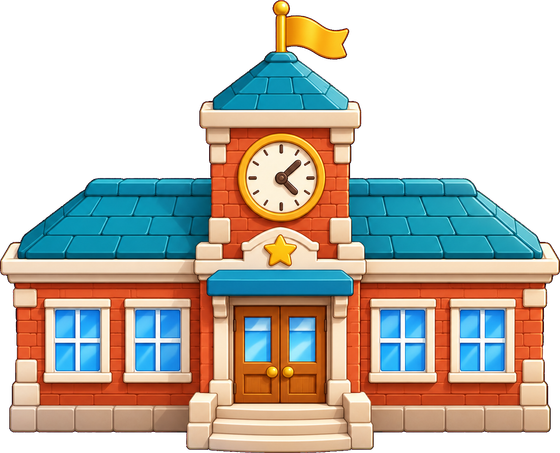
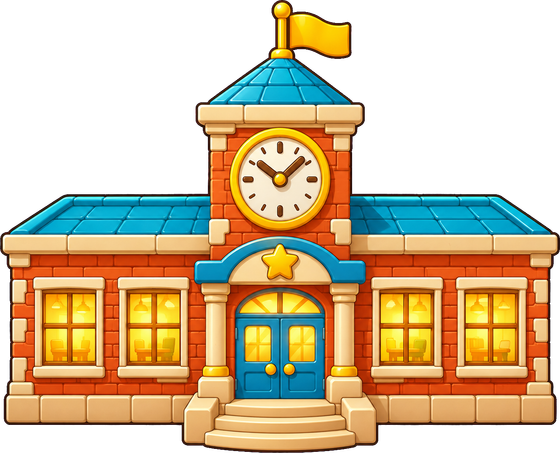
Coins leave the piggy bank when spending; 3D house, school and store map art
AnimateCoins now also animates spending: coins fly out of the piggy bank to the
given world position (the Store passes the item being bought) and each take-off
removes its share from the shown total.

Imports the new place_house/school/store pictures (sources kept in art/eva/map/ai).

diff --git a/EvasLearningWorld/Assets/Eva/App/Ui/Hud.cs b/EvasLearningWorld/Assets/Eva/App/Ui/Hud.cs
@@ -21,7 +21,6 @@ namespace EvasLearningWorld.App
         public const float HomeIconInset = 50f;
 
         private const float BubbleSeconds = 4f;
-        private const float CoinStepSeconds = 0.15f;
         private const float CoinFlySeconds = 0.55f;
         private const float CoinFlySize = 90f;
         private const int MaxFlyingCoins = 8;
@@ -108,14 +107,15 @@ namespace EvasLearningWorld.App
 
         public void SetCoins(int coins) => _coins.text = coins.ToString();
 
-        // Visually adds the coins from `from` up to `to`: up to MaxFlyingCoins coins fly in a short arc from
-        // `fromWorldPosition` (the middle of the screen when null) into the piggy bank, each landing plays
-        // Sfx.Coin(), bumps the piggy and adds its share to the shown total. Spending (to < from) just counts
-        // down. The underlying save is not touched here: EvaGame.Commit() already persisted the real total
+        // Visually moves the coin total from `from` to `to`: up to MaxFlyingCoins coins fly in a short arc.
+        // Gaining: they fly from `worldPosition` (the middle of the screen when null) into the piggy bank and each
+        // landing adds its share to the shown total. Spending: they fly out of the piggy bank to `worldPosition`
+        // (the thing being bought) and each take-off removes its share. Every coin plays Sfx.Coin() and bumps the
+        // piggy. The underlying save is not touched here: EvaGame.Commit() already persisted the real total
         // before a caller starts this (see CountScreen/StoreScreen), so quitting mid-animation never loses or
         // desyncs a coin.
-        public Coroutine AnimateCoins(int from, int to, Sfx sfx, Vector2? fromWorldPosition = null) =>
-            StartCoroutine(AnimateCoinsRoutine(from, to, sfx, fromWorldPosition));
+        public Coroutine AnimateCoins(int from, int to, Sfx sfx, Vector2? worldPosition = null) =>
+            StartCoroutine(AnimateCoinsRoutine(from, to, sfx, worldPosition));
 
         private sealed class CoinRun
         {
@@ -123,30 +123,20 @@ namespace EvasLearningWorld.App
             public int Pending;
         }
 
-        private IEnumerator AnimateCoinsRoutine(int from, int to, Sfx sfx, Vector2? fromWorldPosition)
+        private IEnumerator AnimateCoinsRoutine(int from, int to, Sfx sfx, Vector2? worldPosition)
         {
             SetCoins(from);
-            if (to < from)
-            {
-                for (var coins = from; coins != to; coins--)
-                {
-                    yield return new WaitForSeconds(CoinStepSeconds);
-                    SetCoins(coins - 1);
-                    if (sfx != null) sfx.Coin();
-                }
-                yield break;
-            }
-
-            var amount = to - from;
+            var amount = Mathf.Abs(to - from);
             if (amount == 0 || _coinIconRect == null) yield break;
 
+            var gaining = to > from;
             var flying = Mathf.Min(amount, MaxFlyingCoins);
-            var origin = fromWorldPosition ?? ScreenCentre();
+            var other = worldPosition ?? ScreenCentre();
             var run = new CoinRun { Shown = from, Pending = flying };
             for (var i = 0; i < flying; i++)
             {
                 var share = amount / flying + (i < amount % flying ? 1 : 0);
-                StartCoroutine(FlyCoin(origin, i * CoinStaggerSeconds, share, run, sfx));
+                StartCoroutine(FlyCoin(other, i * CoinStaggerSeconds, gaining ? share : -share, gaining, run, sfx));
             }
             while (run.Pending > 0) yield return null;
             SetCoins(to);
@@ -158,9 +148,13 @@ namespace EvasLearningWorld.App
             return parent.TransformPoint(parent.rect.center);
         }
 
-        // A short-lived coin Image that flies after `delay` from `from` to the slot on the piggy bank's back, then
-        // destroys itself, adds `share` coins to the shown total and bumps the piggy.
-        private IEnumerator FlyCoin(Vector2 from, float delay, int share, CoinRun run, Sfx sfx)
+        private Vector2 PiggySlot() =>
+            _coinIconRect.TransformPoint(new Vector3(0f, _coinIconRect.rect.height * 0.25f, 0f));
+
+        // A short-lived coin Image that, after `delay`, flies from `other` into the slot on the piggy bank's back
+        // (`intoPiggy`) or from that slot out to `other`, then destroys itself. `signedShare` coins are added to the
+        // shown total when a coin lands in the piggy, or removed when it leaves it.
+        private IEnumerator FlyCoin(Vector2 other, float delay, int signedShare, bool intoPiggy, CoinRun run, Sfx sfx)
         {
             var coin = new GameObject("FlyingCoin", typeof(RectTransform), typeof(Image));
             coin.transform.SetParent(_coinIconRect.parent, false);
@@ -176,8 +170,12 @@ namespace EvasLearningWorld.App
 
             for (var t = 0f; t < delay; t += Time.deltaTime) yield return null;
 
-            var startPos = from + new Vector2(Random.Range(-50f, 50f), Random.Range(-50f, 50f));
-            var endPos = (Vector2)_coinIconRect.TransformPoint(new Vector3(0f, _coinIconRect.rect.height * 0.25f, 0f));
+            var jitter = new Vector2(Random.Range(-50f, 50f), Random.Range(-50f, 50f));
+            var startPos = intoPiggy ? other + jitter : PiggySlot();
+            var endPos = intoPiggy ? PiggySlot() : other + jitter;
+            var startScale = intoPiggy ? 1f : 0.6f;
+            var endScale = intoPiggy ? 0.6f : 1f;
+            if (!intoPiggy) Settle(run, signedShare, sfx); // the coin leaves the piggy: the total drops now
             coin.SetActive(true);
             for (var t = 0f; t < CoinFlySeconds; t += Time.deltaTime)
             {
@@ -185,7 +183,7 @@ namespace EvasLearningWorld.App
                 var eased = k * k * (3f - 2f * k);
                 var arc = Mathf.Sin(k * Mathf.PI) * CoinArcHeight;
                 rect.position = Vector2.Lerp(startPos, endPos, eased) + new Vector2(0f, arc);
-                rect.localScale = Vector3.one * Mathf.Lerp(1f, 0.6f, eased);
+                rect.localScale = Vector3.one * Mathf.Lerp(startScale, endScale, eased);
                 yield return null;
             }
 
@@ -194,8 +192,14 @@ namespace EvasLearningWorld.App
             if (Application.isPlaying) Destroy(coin);
             else DestroyImmediate(coin);
 
-            run.Shown += share;
+            if (intoPiggy) Settle(run, signedShare, sfx); // the coin lands: the total rises now
             run.Pending--;
+        }
+
+        // Applies one coin's share to the shown total, plays its sound and bumps the piggy.
+        private void Settle(CoinRun run, int signedShare, Sfx sfx)
+        {
+            run.Shown += signedShare;
             SetCoins(run.Shown);
             if (sfx != null) sfx.Coin();
             if (_bump != null) StopCoroutine(_bump);

diff --git a/EvasLearningWorld/Assets/Eva/Tests/CountScreenHelpTests.cs b/EvasLearningWorld/Assets/Eva/Tests/CountScreenHelpTests.cs
@@ -218,6 +218,11 @@ namespace EvasLearningWorld.Tests
             yield return WaitUntil(() => counter.text == "13", Timeout, "the counter to reach 13");
             yield return WaitUntil(() => _canvas.transform.Find("HudRoot/FlyingCoin") == null, Timeout, "the flying coins to land");
             Assert.That(counter.text, Is.EqualTo("13"));
+
+            _game.Hud.AnimateCoins(13, 4, null, Vector2.zero); // spending: coins fly back out of the piggy bank
+            yield return WaitUntil(() => counter.text == "4", Timeout, "the counter to drop to 4");
+            yield return WaitUntil(() => _canvas.transform.Find("HudRoot/FlyingCoin") == null, Timeout, "the flying coins to land");
+            Assert.That(counter.text, Is.EqualTo("4"));
         }
 
         [UnityTest]
